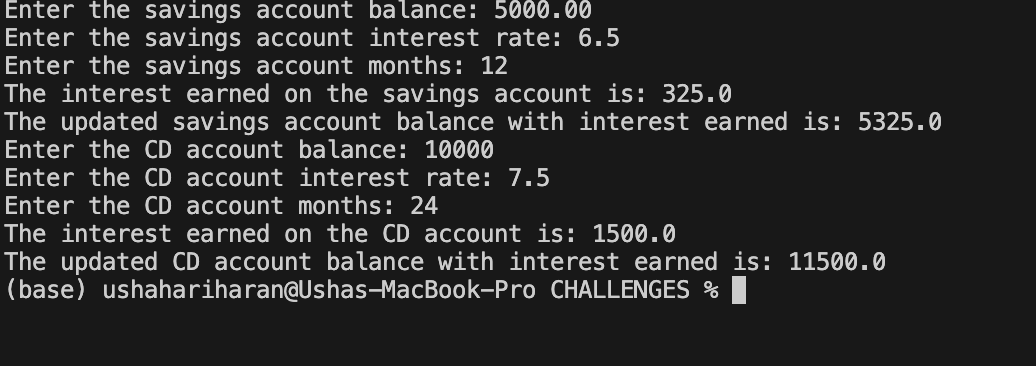
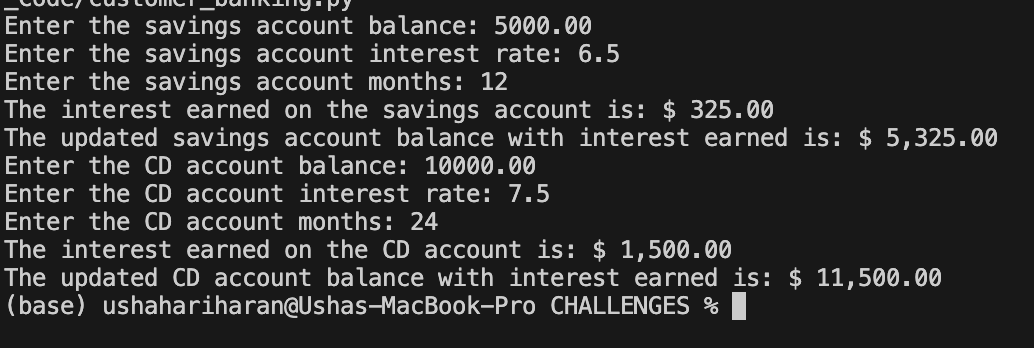
updatedcustomer_banking_file_and_image

Changed region(s): [[0.0, 0.0, 0.9903, 0.6609], [0.0, 0.6897, 0.9284, 0.9195]]

diff --git a/M3_Starter_Code/customer_banking.py b/M3_Starter_Code/customer_banking.py
@@ -21,8 +21,8 @@ def main():
 
     # Print out the interest earned and updated savings account balance with interest earned for the given months.
     # ADD YOUR CODE HERE
-    print(f"The interest earned on the savings account is: {interest_earned}")
-    print(f"The updated savings account balance with interest earned is: {updated_savings_balance}")
+    print(f"The interest earned on the savings account is: $ {interest_earned:,.2f}")
+    print(f"The updated savings account balance with interest earned is: $ {updated_savings_balance:,.2f}")
 
     # Prompt the user to set the CD balance, interest rate, and months for the CD account.
     # ADD YOUR CODE HERE
@@ -35,8 +35,8 @@ def main():
 
     # Print out the interest earned and updated CD account balance with interest earned for the given months.
     # ADD YOUR CODE HERE
-    print(f"The interest earned on the CD account is: {interest_earned}")
-    print(f"The updated CD account balance with interest earned is: {updated_cd_balance}")
+    print(f"The interest earned on the CD account is: $ {interest_earned:,.2f}")
+    print(f"The updated CD account balance with interest earned is: $ {updated_cd_balance:,.2f}")
 
 if __name__ == "__main__":
     # Call the main function.
